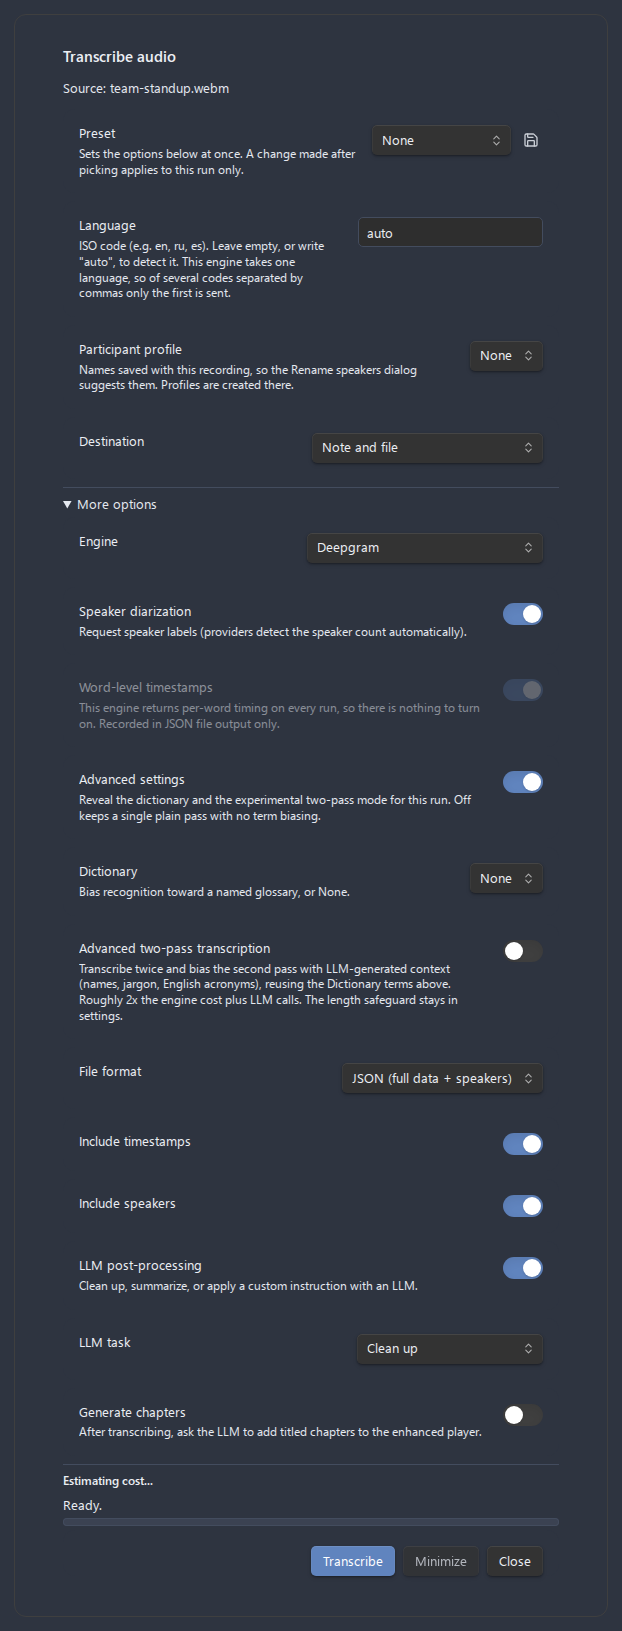
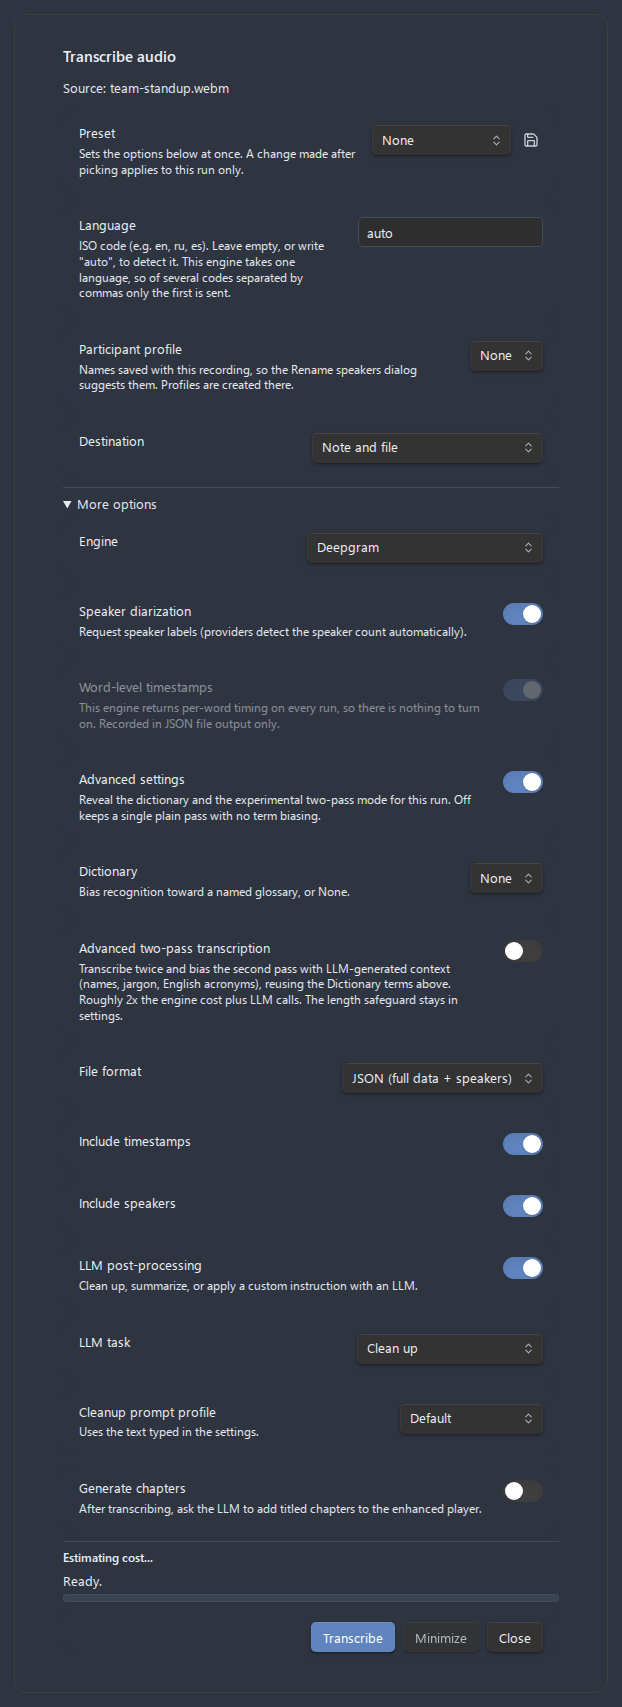
feat(modal): pick the post-processing profile per run in the Transcribe dialog
Under the LLM task, the dialog now offers the profiles of that task's own
kind: the note template for "Structure with a template", the summary
prompt for a summary, and so on. The pick applies to the run and is
remembered as the default, as the other profile rows of the dialog are.

diff --git a/tests/unit/TranscriptionModal.test.ts b/tests/unit/TranscriptionModal.test.ts
@@ -21,6 +21,7 @@ import {
 	settingNames,
 	rowDescription,
 	rowInput,
+	rowOptions,
 	rowSelect,
 	rowToggle,
 	rowToggleOn,
@@ -1471,5 +1472,73 @@ describe('TranscriptionModal progress', () => {
 				'aria-valuenow',
 			),
 		).toBe('0');
+	});
+});
+
+describe('TranscriptionModal profile of the post-processing task', () => {
+	function settingsWithTemplates(): AudioRecorderSettings {
+		return {
+			...DEFAULT_SETTINGS,
+			llmPostProcessEnabled: true,
+			llmPostProcessTask: 'template',
+			profiles: [
+				storedProfile('llmTemplate', 't1', 'Sync', '{{transcript}}'),
+				storedProfile('llmTemplate', 't2', 'Lecture', '{{transcript}}'),
+				storedProfile('llmSummary', 's1', 'Short', 'Three points.'),
+			],
+			selectedProfileIds: {
+				...DEFAULT_SETTINGS.selectedProfileIds,
+				llmTemplate: 't1',
+			},
+		};
+	}
+
+	it('offers the templates when the task structures with one, and runs the picked one', () => {
+		const settings = settingsWithTemplates();
+		const onProfileSelected = jest.fn().mockResolvedValue(undefined);
+		const modal = new TranscriptionModal(
+			new App(),
+			createAudioFile(),
+			() => settings,
+			{ transcriber, onProfileSelected },
+		);
+		modal.onOpen();
+		const row = settingRow(modal.contentEl, 'Note template profile');
+
+		expect(rowOptions(row)).toEqual(['None', 'Sync', 'Lecture']);
+		expect(rowSelect(row).value).toBe('t1');
+		rowSelect(row).value = 't2';
+		rowSelect(row).dispatchEvent(new Event('change'));
+
+		expect(onProfileSelected).toHaveBeenCalledWith('llmTemplate', 't2');
+		expect(runSettingsOf(modal).selectedProfileIds.llmTemplate).toBe('t2');
+		expect(settings.selectedProfileIds.llmTemplate).toBe('t1');
+	});
+
+	it('follows the task: a summary offers the summary prompts', async () => {
+		const modal = openedOver(settingsWithTemplates());
+
+		const task = rowSelect(settingRow(modal.contentEl, 'LLM task'));
+		task.value = 'summary';
+		task.dispatchEvent(new Event('change'));
+		await tick();
+
+		expect(hasSettingRow(modal.contentEl, 'Note template profile')).toBe(
+			false,
+		);
+		expect(
+			rowOptions(settingRow(modal.contentEl, 'Summary prompt profile')),
+		).toEqual(['None', 'Short']);
+	});
+
+	it('is not shown while post-processing is off', () => {
+		const modal = openedOver({
+			...settingsWithTemplates(),
+			llmPostProcessEnabled: false,
+		});
+
+		expect(hasSettingRow(modal.contentEl, 'Note template profile')).toBe(
+			false,
+		);
 	});
 });

diff --git a/src/ui/taskProfilePicker.ts b/src/ui/taskProfilePicker.ts
@@ -1,0 +1,67 @@
+/**
+ * The row of the transcription dialog that picks the prompt profile, or the
+ * note template, of the post-processing task chosen for the run.
+ *
+ * Which summary prompt or which template suits a recording is a choice made
+ * per recording as often as once in the settings: a daily sync and a lecture
+ * go through the same task and want different templates. The row offers the
+ * profiles of the task's own kind, under the name the settings give that
+ * kind's selection, so the two read as the same choice.
+ * @module ui/taskProfilePicker
+ */
+
+import type { ProfileTextSource } from '../settings/ProfileTextSource';
+import { PROFILE_KINDS } from '../settings/profileKinds';
+import { PROMPT_KIND_OF_TASK } from '../settings/profileResolution';
+import {
+	type ProfileKindId,
+	profilesOfKind,
+	selectedProfile,
+	selectedProfileId,
+	setSelectedProfileId,
+} from '../settings/profiles';
+import {
+	addDropdown,
+	type SettingsSectionContext,
+} from '../settings/settingControls';
+
+/** What the row reports a pick to, so it is remembered for the next run. */
+export type ProfilePicked = (kind: ProfileKindId, id: string) => void;
+
+/**
+ * Adds the row picking the profile of the run's post-processing task.
+ * @param ctx - The dialog's controls, over the run's settings
+ * @param profileText - Says where the picked profile's text comes from
+ * @param onPicked - Told of each pick
+ */
+export function addTaskProfilePicker(
+	ctx: SettingsSectionContext,
+	profileText: ProfileTextSource,
+	onPicked: ProfilePicked,
+): void {
+	const s = ctx.settings;
+	const kindId = PROMPT_KIND_OF_TASK[s.llmPostProcessTask];
+	const kind = PROFILE_KINDS.find((candidate) => candidate.id === kindId);
+	if (!kind) {
+		return;
+	}
+	addDropdown(ctx, {
+		name: kind.selectionName,
+		desc: profileText.status(selectedProfile(s, kindId)),
+		options: [
+			{ value: '', label: 'None' },
+			...profilesOfKind(s.profiles, kindId).map((profile) => ({
+				value: profile.id,
+				label: profile.name,
+			})),
+		],
+		get: () => selectedProfileId(s, kindId),
+		set: (id) => {
+			setSelectedProfileId(s, kindId, id);
+			onPicked(kindId, id);
+		},
+		// Drawn again so the line naming the profile's text and the estimate,
+		// which counts a template's calls, follow the pick.
+		rerender: true,
+	});
+}

diff --git a/src/ui/TranscriptionModal.ts b/src/ui/TranscriptionModal.ts
@@ -72,6 +72,7 @@ import { presetBodyOf, settingsWithPreset } from '../transcription/runPreset';
 import { renderPresetRow } from './presetRow';
 import { focusPlace, restoreFocus } from './focusAcrossRender';
 import { createProgressBar, type ProgressBar } from './progressBar';
+import { addTaskProfilePicker } from './taskProfilePicker';
 
 /** Default status label shown before the engine reports a finer-grained stage. */
 const DEFAULT_TRANSCRIBE_LABEL = 'Transcribing...';
@@ -674,6 +675,12 @@ export class TranscriptionModal extends PluginModal {
 				options: LLM_TASK_OPTIONS,
 				get: () => s.llmPostProcessTask,
 				set: (v) => (s.llmPostProcessTask = v as LlmTask),
+				// Drawn again so the profile row below offers the new task's.
+				rerender: true,
+			});
+			addTaskProfilePicker(advancedCtx, profileText, (kind, id) => {
+				// Affects this run and is remembered as the next one's.
+				void this.options.onProfileSelected?.(kind, id);
 			});
 		}
 		if (s.transcriptionAutoChaptersEnabled) {

diff --git a/docs/transcription.md b/docs/transcription.md
@@ -527,7 +527,7 @@ Every other option sits in a collapsed **More options** block below them; click 
 - **Advanced settings** - a master switch (off by default) that reveals the term-biasing controls for this run; with it off the recording transcribes in one plain pass with no biasing. When on it shows a **Dictionary** picker (choose a named profile to bias this run, or None) and an **Advanced two-pass transcription** toggle (the experimental context-biased two-pass mode, roughly 2x the engine cost plus LLM calls, reusing the Dictionary terms above and leaving its length safeguard in the settings tab).
 - **File format** - shown when the destination is not note-only.
 - **Include timestamps** and **Include speakers** - shown only when the destination renders Markdown into the note (Insert into note / Note and file); **Include speakers** is diarization-gated.
-- **LLM post-processing** - toggle it on, and pick the **LLM task** (Clean up / Summarize / Translate / Custom) for this run.
+- **LLM post-processing** - toggle it on, and pick the **LLM task** (Clean up / Summarize / Translate / Custom / Structure with a template) for this run. Below it, the profile the task uses can be picked for this run: the **Note template profile** for a template, the **Summary prompt profile** for a summary, and so on. The pick is remembered as the default for the next run and for transcribe-on-save.
 - **Generate chapters** - shown when auto chapters are enabled; asks the LLM for titled chapters after transcribing. Turned on, it adds a **Chapter profile** picker for the guidance this run uses.
 
 The detailed in-note templates (note heading, timestamp/speaker/line format) stay in the **settings tab**, and so does everything about a service itself, since a credential cannot be entered safely in a transient dialog: each engine's endpoint, key, model catalogue, and token ceiling belong on its page under **Engines**. Whatever you set in those template and provider fields is applied as configured.
@@ -536,7 +536,7 @@ Options toggled mid-run do **not** change an in-flight job: the run snapshots it
 
 ![The Transcribe audio dialog with the Preset row set to None and its save button, the Language, Participant profile and Destination rows, and the collapsed More options block below them, above the cost line and the Transcribe, Minimize and Close buttons](images/transcription-dialog.png)
 
-![The same dialog with the More options block open, listing Engine, Speaker diarization, disabled Word-level timestamps, Advanced settings, Dictionary, Advanced two-pass transcription, File format, Include timestamps, Include speakers, LLM post-processing, LLM task and Generate chapters](images/transcription-dialog-advanced.png)
+![The same dialog with the More options block open, listing Engine, Speaker diarization, disabled Word-level timestamps, Advanced settings, Dictionary, Advanced two-pass transcription, File format, Include timestamps, Include speakers, LLM post-processing, LLM task, the Cleanup prompt profile that task uses, and Generate chapters](images/transcription-dialog-advanced.png)
 
 ### Transcription presets
 

diff --git a/docs/llm-post-processing.md b/docs/llm-post-processing.md
@@ -223,6 +223,8 @@ A template is applied as best it can be:
 - **A template that cannot be rendered**, such as one with two parts of the same name, keeps the plain transcript, with a notice naming the problem.
 - **With no template selected**, the transcript is kept as it is, with a notice.
 
+Which template a run uses can also be picked in the **Transcribe** dialog, under the **LLM task**, so a daily sync and a lecture each get their own without a trip to the settings.
+
 The **Template variables** row on a template's page checks it as you type: a part without a name or an instruction, an unknown format or setting, a part inside a repeat, a profile no prompt profile is called, `{{parts.name}}` naming no part, and a transcript written twice or with a setting it does not take. The cost estimate before a run counts the calls the selected template makes.
 
 #### Structuring a transcript you already have
